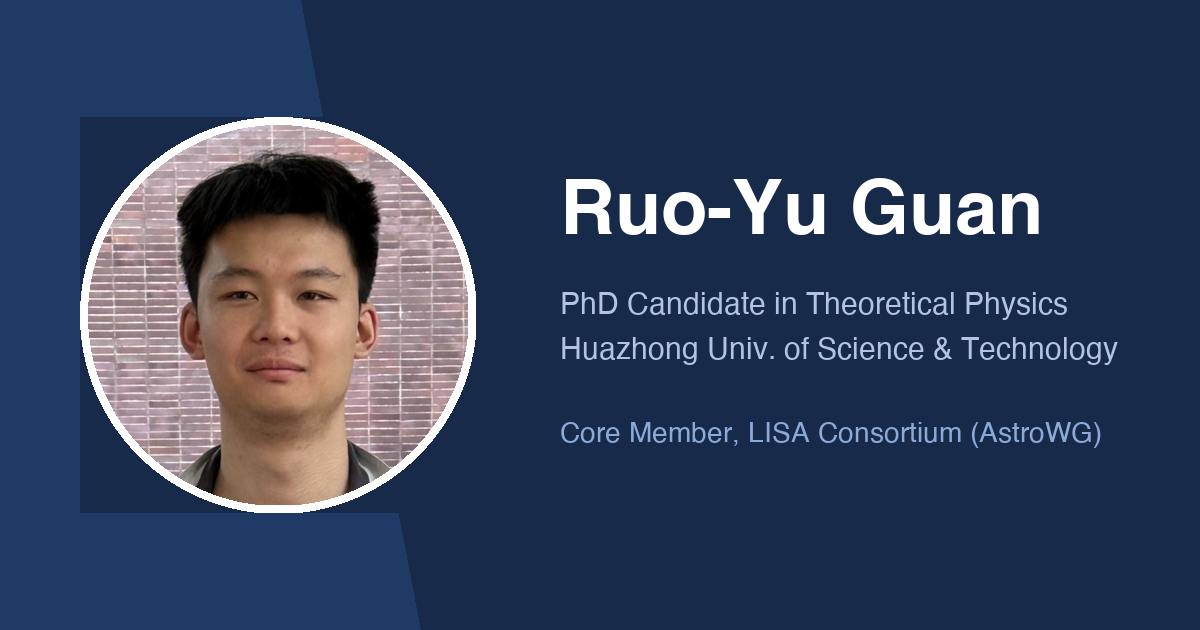
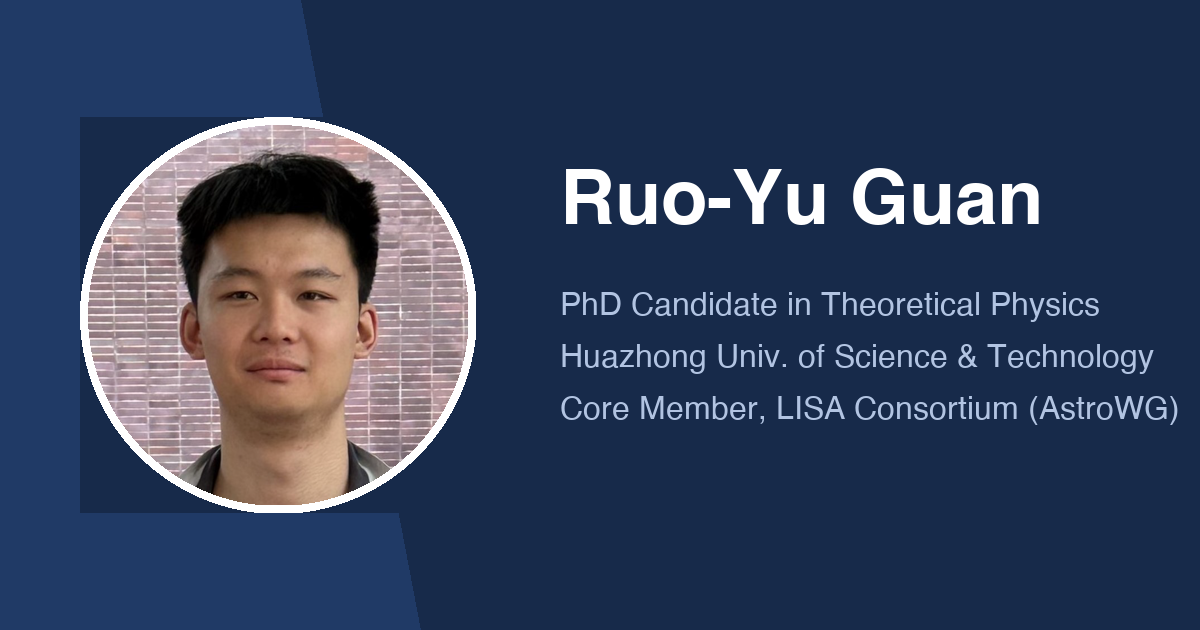
Strip HTML from og:site_name; unify OG card subtitle typography

diff --git a/_includes/seo.html b/_includes/seo.html
@@ -40,7 +40,7 @@
 {% endif %}
 
 <meta property="og:locale" content="{{ site.locale | default: "en" }}">
-<meta property="og:site_name" content="{{ site.title }}">
+<meta property="og:site_name" content="{{ site.title | markdownify | strip_html | strip_newlines | escape_once }}">
 <meta property="og:title" content="{{ page.title | default: site.title | markdownify | strip_html | strip_newlines | escape_once }}">
 
 {% if seo_url %}
